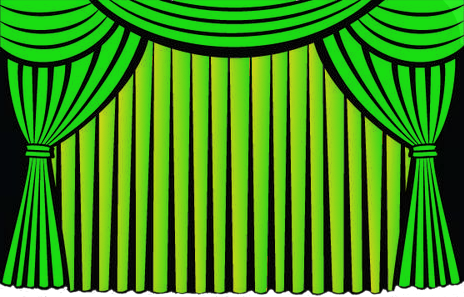
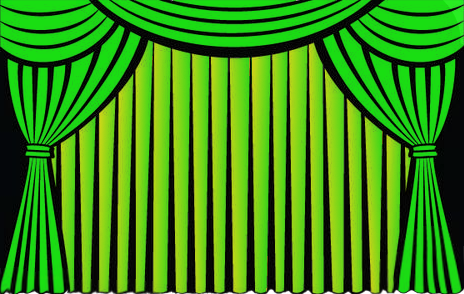
updated html file--game over screen; updated curtain image; uploading barbecue img

diff --git a/game3monsters.html b/game3monsters.html
@@ -9,7 +9,7 @@
 <!-- butterfly styles:
 1 (long antennae)   E M N T Z L
 2 (short antennae)  A P R U W
-3 (inv antennae)    B I Q C D -->
+3 (inv antennae)    B I Q C D F -->
 
 <style>
 
@@ -172,11 +172,12 @@ display: inline-block;
 
 #gameOverScreen {
   background-color: #AFA;
-  font-size: 15vw;
+  font-size: 14vw;
   text-align: center;
   display: block;
   position: fixed;
-  font-family: "Arial";
+  font-family: "Georgia";
+  text-shadow: 6px 6px #393;
   font-weight: bold;
   left: 0%;
   width: 100%;
@@ -493,7 +494,7 @@ function wordSpelledSuccessfully() {
 
 function generateRandomVocabWord() {
   // if (vocabulary.length == 0) {
-  if (vocabulary.length < 6) {
+  if (vocabulary.length < 7) {
     document.getElementById("gameOverScreen").style.animationPlayState = "running";
   }
   var arrayToReturn = [];
